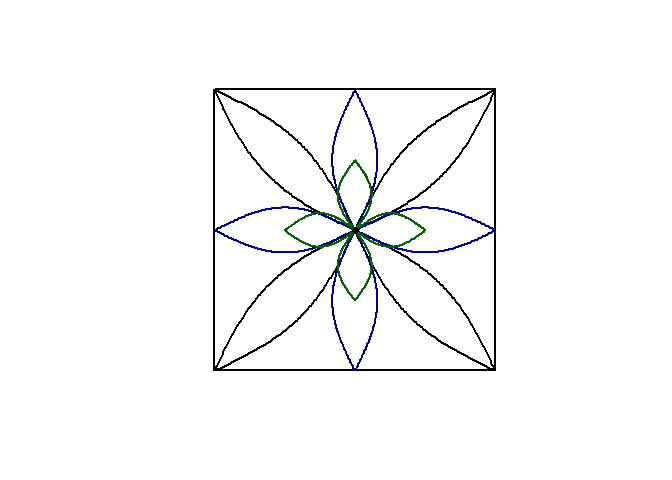
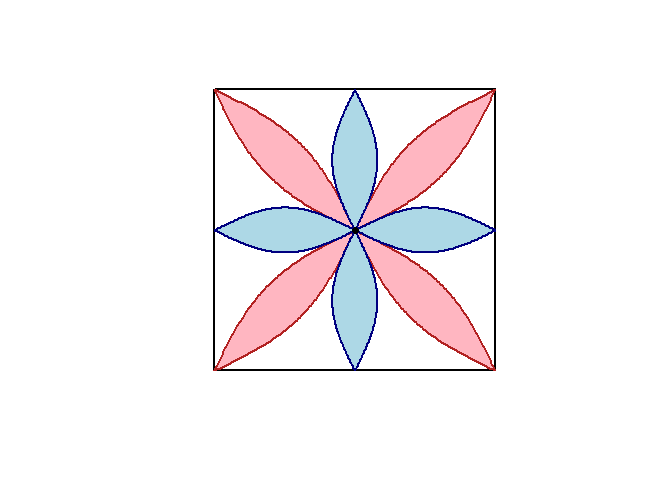
updated

Changed region(s): [[0.3125, 0.1875, 0.75, 0.7812]]

diff --git a/README.md b/README.md
@@ -32,6 +32,19 @@ a fusion of creativity, logic, and technology, demonstrating how
 artistic expression can emerge from mathematical thinking and
 computational methods.
 
+Figure 1. This project lies at the intersection of Art, Mathematics, and
+Programming.
+
+<div class="figure">
+
+<img src="https://raw.githubusercontent.com/thiyangt/srilankamotif/main/project.png" alt="Figure 1: Intersection of Art, Mathematics, and Programming" width="100%" />
+<p class="caption">
+
+Figure 1: Intersection of Art, Mathematics, and Programming
+</p>
+
+</div>
+
 ## Installation
 
 You can install the development version of srilankamotif from
@@ -65,13 +78,13 @@ generate_flower()
 draw_dual_2flowers()
 ```
 
-<img src="man/figures/README-unnamed-chunk-3-1.png" alt="" width="100%" />
+<img src="man/figures/README-unnamed-chunk-4-1.png" alt="" width="100%" />
 
 ``` r
 generate_binara_3flower()
 ```
 
-<img src="man/figures/README-unnamed-chunk-4-1.png" alt="" width="100%" />
+<img src="man/figures/README-unnamed-chunk-5-1.png" alt="" width="100%" />
 
 # Inspired by Arimbuwa
 
@@ -79,7 +92,7 @@ generate_binara_3flower()
 generate_arimbuwa()
 ```
 
-<img src="man/figures/README-unnamed-chunk-5-1.png" alt="" width="100%" />
+<img src="man/figures/README-unnamed-chunk-6-1.png" alt="" width="100%" />
 
 ## Inspired by Gal Binduwa (ගල් බින්දු)
 
@@ -87,9 +100,10 @@ generate_arimbuwa()
 generate_galbinduwa()
 ```
 
-<img src="man/figures/README-unnamed-chunk-6-1.png" alt="" width="100%" />
+<img src="man/figures/README-unnamed-chunk-7-1.png" alt="" width="100%" />
 
-## References
+## Traditional Sinhala Designs
 
-[Traditional Sinhala
-Degins](https://upload.wikimedia.org/wikipedia/commons/e/e9/%E0%B6%B4%E0%B7%90%E0%B6%BB%E0%B6%AB%E0%B7%92_%E0%B7%83%E0%B7%92%E0%B6%82%E0%B7%84%E0%B6%BD_%E0%B6%B8%E0%B7%9D%E0%B7%83%E0%B7%8A%E0%B6%AD%E0%B6%BB_old_sinhala_designs.jpg)
+Clear
+[here](https://upload.wikimedia.org/wikipedia/commons/e/e9/%E0%B6%B4%E0%B7%90%E0%B6%BB%E0%B6%AB%E0%B7%92_%E0%B7%83%E0%B7%92%E0%B6%82%E0%B7%84%E0%B6%BD_%E0%B6%B8%E0%B7%9D%E0%B7%83%E0%B7%8A%E0%B6%AD%E0%B6%BB_old_sinhala_designs.jpg)
+to view traditional sinhala designs.
